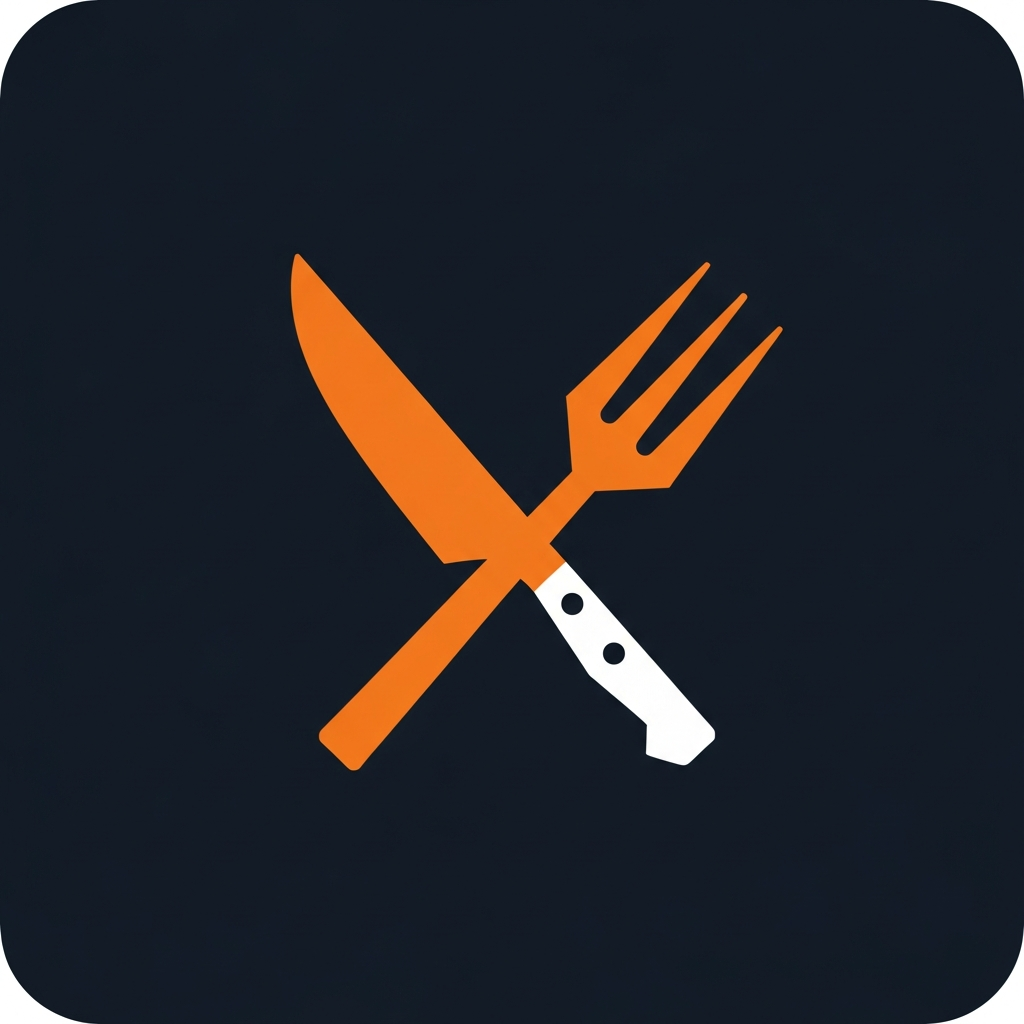
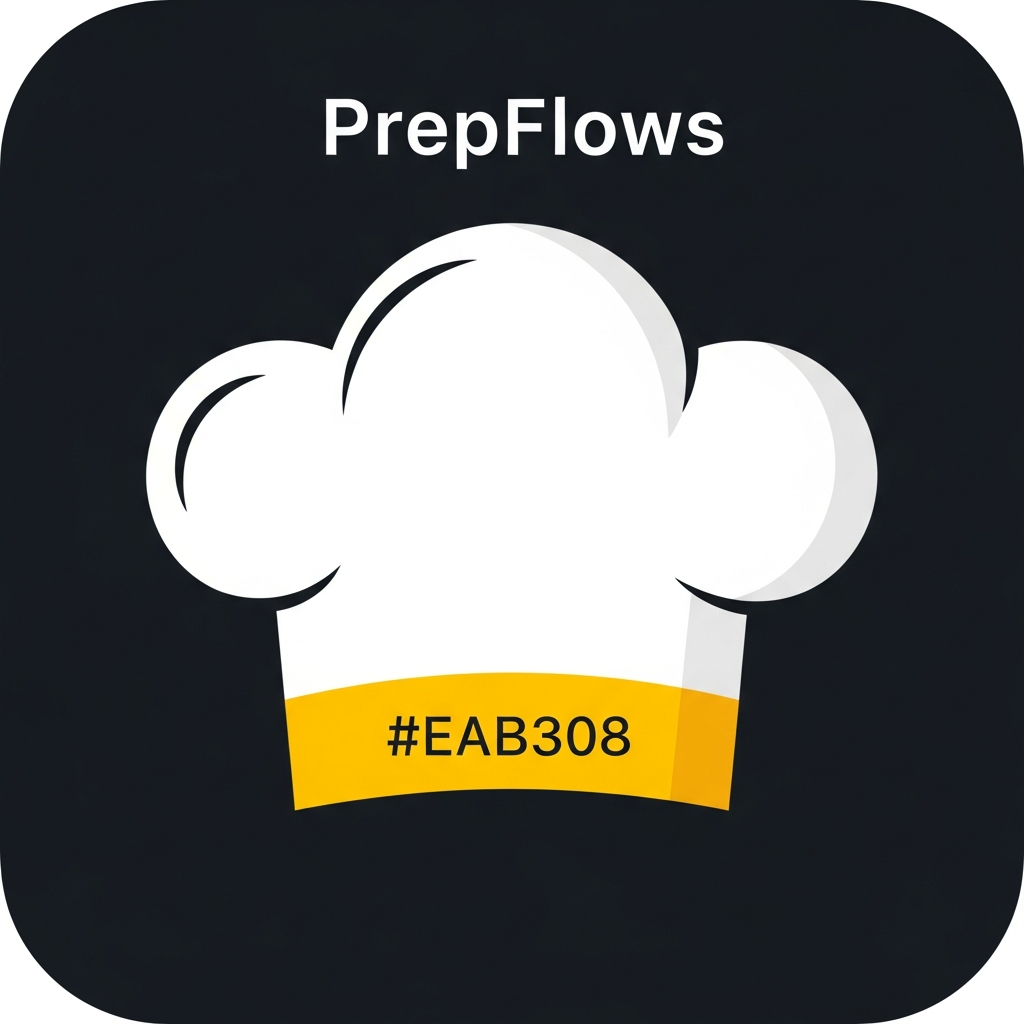
Task #16: Rebrand KitchenCommand → PrepFlows with yellow theme
Original task: Full rebrand from KitchenCommand to PrepFlows including
new yellow accent color (#EAB308 replaces #F97316 orange), updated
bundle identifiers, URL scheme, and all visible brand references.

Changes made:
- constants/colors.ts: tint/primary → #EAB308, primaryForeground → #0D1117,
  card → #161B22, border/input → #21262D
- app.json: name→PrepFlows, slug→prepflows, scheme→prepflows,
  bundleIdentifier/android.package→com.prepflows.app,
  web.themeColor and notifications color → #EAB308
- eas.json: kept Apple credentials, no structural changes needed
- app/+html.tsx: title/meta → PrepFlows, theme-color → #EAB308,
  splash element IDs kc-* → pf-*, chef hat SVG icon
- app/subscribe.tsx: "KitchenCommand Plans" → "PrepFlows Plans",
  Pro plan color → #EAB308, dark text on yellow badge, mailto →
  hello@prepflows.app, welcome message → PrepFlows
- app/brief/[id].tsx: typeBadge, whereEyebrow, runTime, menuTime
  colors → #EAB308; footer "PrepFlows" (TEAM_COLORS Hot Kitchen kept
  #F97316 as semantic section color)
- app/brief/today.tsx: eyebrow → PrepFlows · Daily Brief, avatarColor
  first entry → #EAB308, footer → PrepFlows
- app/prep-print/[id].tsx: shareBtn → #EAB308, share text header →
  PREPFLOWS, footer → PrepFlows
- app/(tabs)/index.tsx: liveBadge, live dot, statusColor "In Progress"
  → #EAB308 (both manager and staff views)
- app/(tabs)/roster.tsx: addStaffBtn → #EAB308
- app/manage.tsx: ACCESS_COLORS.manager, managerBadge, tab active
[…]

diff --git a/artifacts/kitchen-app/app/(tabs)/roster.tsx b/artifacts/kitchen-app/app/(tabs)/roster.tsx
@@ -417,7 +417,7 @@ export default function RosterScreen() {
                     value={
                       Platform.OS === "web" && typeof window !== "undefined"
                         ? `${window.location.origin}/brief/today`
-                        : "kitchencommand://brief/today"
+                        : "prepflows://brief/today"
                     }
                     size={210}
                     color="#0D1117"

diff --git a/artifacts/kitchen-app/lib/supabase.ts b/artifacts/kitchen-app/lib/supabase.ts
@@ -1,5 +1,5 @@
 /**
- * Supabase client for the KitchenCommand Expo app.
+ * Supabase client for the PrepFlows app.
  *
  * Credentials are injected at runtime via app.config.js → Constants.expoConfig.extra.
  * The client is null when credentials are not yet configured — all sync helpers

diff --git a/artifacts/kitchen-app/lib/supabase-sync.ts b/artifacts/kitchen-app/lib/supabase-sync.ts
@@ -1,5 +1,5 @@
 /**
- * Supabase sync helpers for KitchenCommand.
+ * Supabase sync helpers for PrepFlows.
  *
  * Each write helper is fire-and-forget: it awaits the Supabase response,
  * checks the .error field (Supabase JS never throws), and warns on failure.
